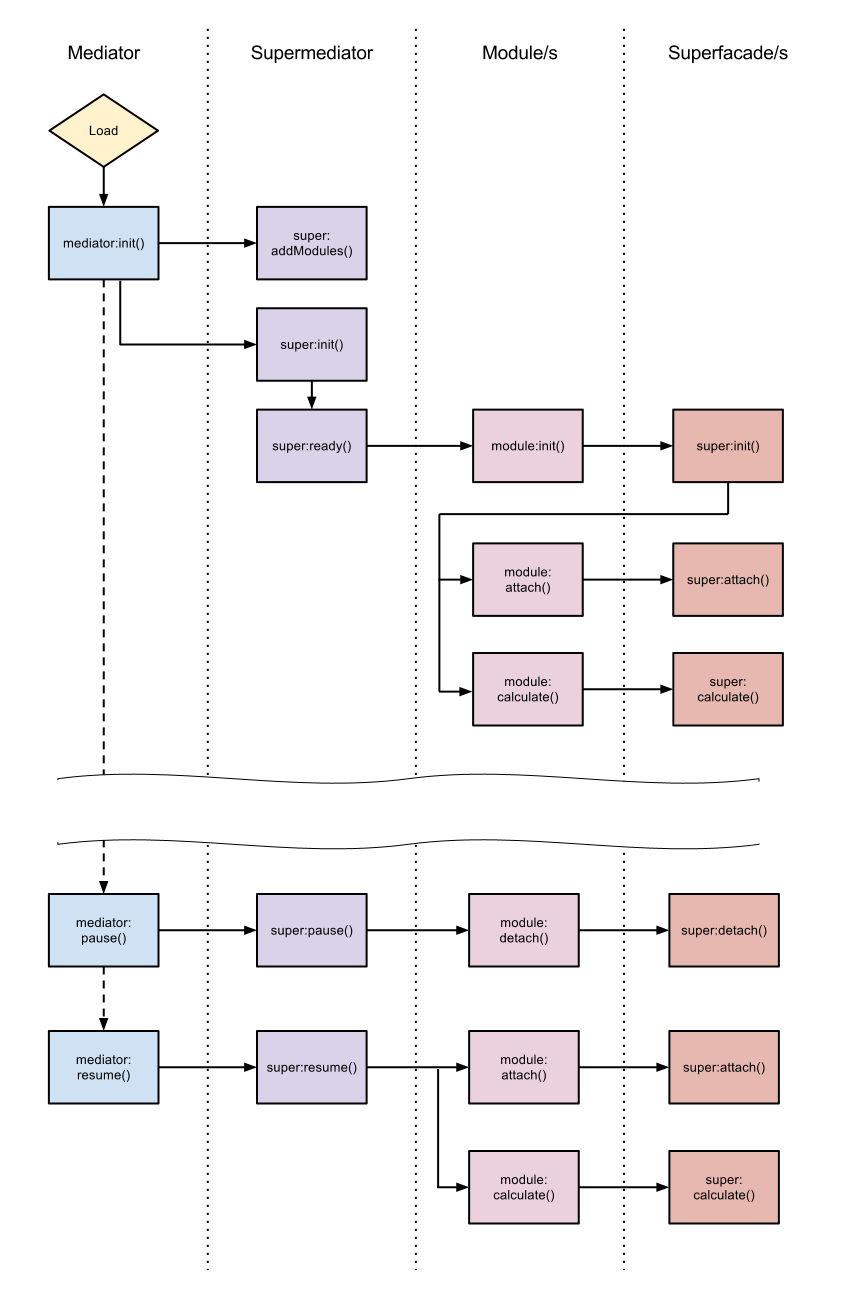
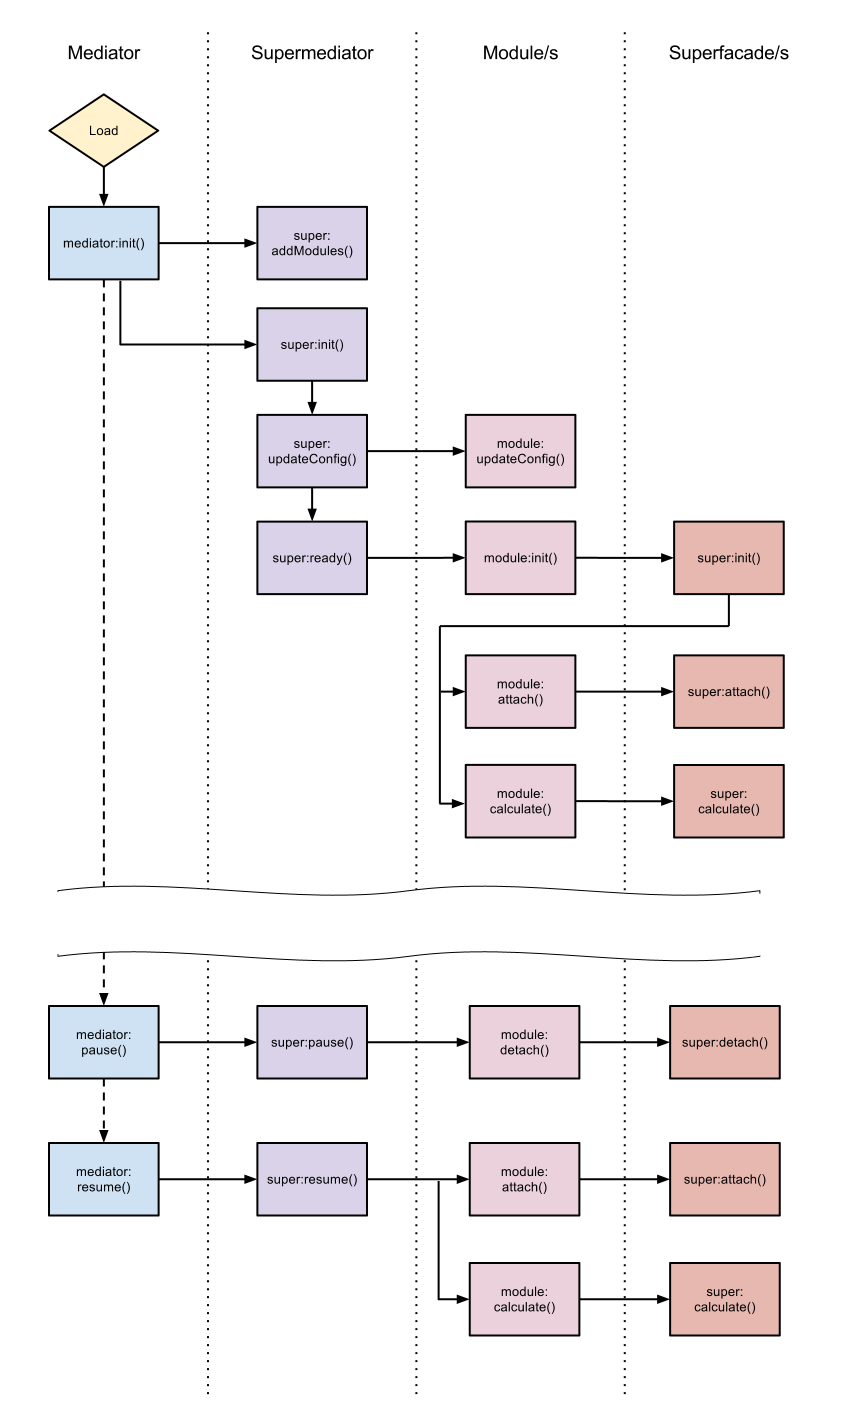
Updating lifecycle documentation to reflect attach/detach/updateconfig changes

diff --git a/README.md b/README.md
@@ -17,6 +17,9 @@ This method resumes the mediator after being stopped.
 
     supermediator:init
 This method initializes the component mediator, attaches any config variables and sets up its child modules ready for execution.
+    
+    supermediator:updateConfig
+This method updates the mediator config. If the modules attached to the mediator have a method called updateConfig the module method will also be executed
 
     supermediator:addModules
 This method adds modules to the mediator, it should be executed by the mediator:init method before calling this._super()
@@ -30,11 +33,17 @@ This method executes the attached module stop methods
     module:init
 This method initializes the module. The method should contain setup code that needs to be executed on module load. This function is only executed once, any code that must run whenever the module is activated should be in module:resume.
 
-    module:resume
-This method resume the module after being stopped. This method is also executed automatically after the superfacade:init method. Calls to module methods that attach event bindings should be here alongside any setup code.
+    module:attach
+This method attaches any module even listeners. This method is executed automatically after the superfacade:init method.
 
-    module:stop
-This method stops the module from executing. Calls to module methods that detach event bindings should be here alongside any cleanup code.
+    module:detach
+This method detaches the module from executing. Calls to module methods that detach event bindings should be here alongside any cleanup code.
+
+    module:calculate
+This method is used to perfm and calculations necessary for setting up the module. This method is run automatically after superfacade:init. It should also be run after updating the module config.
+
+    module:updateConfig
+Optional module method for updating the module configution beyond the initial config provided during the module:init method.
 
     superfacade:init
 Currently this method only executes the module:resume method
